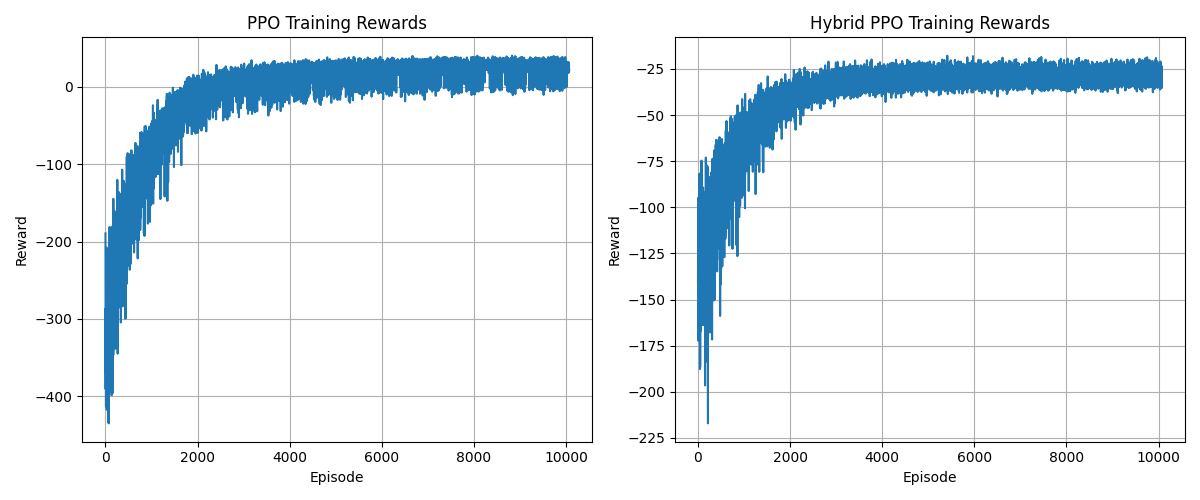
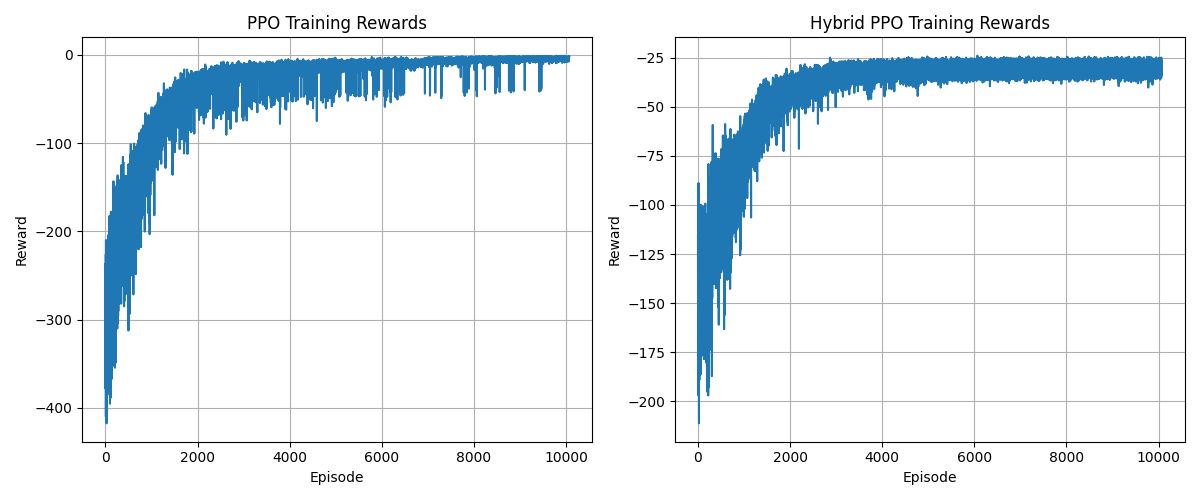
add the demo

diff --git a/frontend/src/components/smarthome/Overlay.tsx b/frontend/src/components/smarthome/Overlay.tsx
@@ -7,7 +7,8 @@ export default function Overlay() {
     const {
         devices, isNight, batterySOC, gridImport, totalBill, weather, n_home,
         simData, currentViewMode, setViewMode, toggleNight, isConnected, resetSimulation,
-        manualOverride, toggleManualMode, toggleDevice
+        manualOverride, toggleManualMode, toggleDevice,
+        isDemoMode, currentScenario, setDemoMode
     } = useStore();
 
     const [activeTab, setActiveTab] = useState<'dashboard' | 'devices'>('dashboard');
@@ -155,6 +156,64 @@ export default function Overlay() {
                             >
                                 ✕
                             </div>
+                        </div>
+                    </div>
+
+                    {/* Demo Mode Control Bar */}
+                    <div style={{
+                        display: 'flex', alignItems: 'center', justifyContent: 'space-between',
+                        padding: '10px 12px', borderRadius: 8,
+                        background: isDemoMode ? 'rgba(251, 146, 60, 0.15)' : 'rgba(255, 255, 255, 0.05)',
+                        border: isDemoMode ? '1px solid rgba(251, 146, 60, 0.4)' : '1px solid rgba(255, 255, 255, 0.1)',
+                        transition: 'all 0.3s'
+                    }}>
+                        {/* Toggle Switch */}
+                        <div style={{ display: 'flex', alignItems: 'center', gap: 10 }}>
+                            <span style={{ fontSize: 11, fontWeight: 600, color: isDemoMode ? '#fb923c' : '#94a3b8' }}>
+                                🎬 Demo Mode
+                            </span>
+                            <div
+                                onClick={() => setDemoMode(!isDemoMode)}
+                                style={{
+                                    width: 44, height: 24, borderRadius: 12,
+                                    background: isDemoMode ? 'linear-gradient(135deg, #f97316, #ea580c)' : '#374151',
+                                    padding: 2, cursor: 'pointer',
+                                    transition: 'all 0.3s',
+                                    boxShadow: isDemoMode ? '0 0 12px rgba(249, 115, 22, 0.4)' : 'none'
+                                }}
+                            >
+                                <div style={{
+                                    width: 20, height: 20, borderRadius: '50%',
+                                    background: '#fff',
+                                    transform: isDemoMode ? 'translateX(20px)' : 'translateX(0)',
+                                    transition: 'transform 0.3s ease',
+                                    boxShadow: '0 2px 4px rgba(0,0,0,0.3)'
+                                }} />
+                            </div>
+                        </div>
+
+                        {/* Scenario Dropdown */}
+                        <div style={{ display: 'flex', alignItems: 'center', gap: 8 }}>
+                            <span style={{ fontSize: 10, color: '#64748b' }}>Scenario:</span>
+                            <select
+                                value={currentScenario}
+                                onChange={(e) => setDemoMode(true, e.target.value)}
+                                disabled={!isDemoMode}
+                                style={{
+                                    background: isDemoMode ? 'rgba(251, 146, 60, 0.2)' : 'rgba(100, 116, 139, 0.2)',
+                                    border: isDemoMode ? '1px solid rgba(251, 146, 60, 0.4)' : '1px solid rgba(100, 116, 139, 0.3)',
+                                    borderRadius: 6, padding: '5px 10px',
+                                    color: isDemoMode ? '#fed7aa' : '#64748b',
+                                    fontSize: 11, fontWeight: 600,
+                                    cursor: isDemoMode ? 'pointer' : 'not-allowed',
+                                    opacity: isDemoMode ? 1 : 0.5,
+                                    outline: 'none'
+                                }}
+                            >
+                                <option value="ideal">☀ Ideal Day</option>
+                                <option value="erratic">🌦 Erratic Day</option>
+                                <option value="heatwave">🔥 Heatwave</option>
+                            </select>
                         </div>
                     </div>
 

diff --git a/frontend/src/stores/useStore.ts b/frontend/src/stores/useStore.ts
@@ -7,6 +7,9 @@ interface EnvironmentData {
     temp: number;
     pv: number;
     price_tier: number;
+    // Demo mode fields (optional)
+    demo_mode?: boolean;
+    scenario_name?: string;
 }
 
 // Room-specific device actions
@@ -97,6 +100,11 @@ interface AppState {
     totalBill: number;
     weather: string;
     n_home: number;
+
+    // Demo Mode
+    isDemoMode: boolean;
+    currentScenario: 'ideal' | 'erratic' | 'heatwave';
+    setDemoMode: (enabled: boolean, scenario?: string) => Promise<void>;
 }
 
 const INITIAL_DEVICES: Record<string, Device> = {
@@ -317,4 +325,26 @@ export const useStore = create<AppState>((set, get) => ({
     totalBill: 0,
     weather: 'sunny',
     n_home: 2,
+
+    // Demo Mode
+    isDemoMode: false,
+    currentScenario: 'ideal',
+    setDemoMode: async (enabled, scenario) => {
+        const newScenario = scenario || get().currentScenario;
+        set({ isDemoMode: enabled, currentScenario: newScenario as any });
+
+        try {
+            await fetch('http://localhost:8000/set_mode', {
+                method: 'POST',
+                headers: { 'Content-Type': 'application/json' },
+                body: JSON.stringify({ demo_mode: enabled, scenario: newScenario })
+            });
+            // Reset local state when toggling demo mode
+            if (enabled) {
+                get().resetSimulation();
+            }
+        } catch (e) {
+            console.error('Failed to set demo mode:', e);
+        }
+    },
 }));

diff --git a/frontend/src/components/smarthome/Environment.tsx b/frontend/src/components/smarthome/Environment.tsx
@@ -118,3 +118,5 @@ export default function Environment() {
 }
 
 
+
+

diff --git a/frontend/src/components/StaticHouse.jsx b/frontend/src/components/StaticHouse.jsx
@@ -8,3 +8,5 @@ export default function StaticHouse() {
 
 
 
+
+

diff --git a/frontend/src/components/smarthome/materials.js b/frontend/src/components/smarthome/materials.js
@@ -149,3 +149,5 @@ export const makeChromeMat = () =>
 
 
 
+
+

diff --git a/backend/ws_server.py b/backend/ws_server.py
@@ -45,6 +45,34 @@ app.add_middleware(
 PPO_MODEL_PATH = "ppo_smart_home.zip"
 HYBRID_MODEL_PATH = "ppo_hybrid_smart_home.zip"
 
+# Demo Scenarios for presentation mode
+DEMO_SCENARIOS = {
+    "ideal": {
+        "name": "Ideal Day",
+        "description": "Sunny bell-curve PV, normal pricing",
+        "pv_profile": [0, 0, 0, 0, 0, 0, 0.2, 0.8, 1.5, 2.5, 3.2, 3.8, 4.0, 3.8, 3.0, 2.0, 1.0, 0.3, 0, 0, 0, 0, 0, 0],
+        "temp_profile": [24, 24, 23, 23, 23, 24, 25, 26, 27, 28, 29, 30, 31, 31, 30, 29, 28, 27, 26, 26, 25, 25, 24, 24],
+        "price_tier": [1, 1, 1, 1, 1, 1, 2, 2, 2, 3, 3, 3, 3, 3, 3, 3, 4, 5, 5, 4, 3, 2, 1, 1],
+        "weather": "sunny"
+    },
+    "erratic": {
+        "name": "Erratic Day",
+        "description": "Intermittent clouds, PV drops at 10h and 14h",
+        "pv_profile": [0, 0, 0, 0, 0, 0, 0.1, 0.5, 1.8, 2.2, 0.2, 0.3, 2.5, 1.0, 0.1, 0.0, 0.0, 0.0, 0, 0, 0, 0, 0, 0],
+        "temp_profile": [25, 25, 25, 24, 24, 25, 26, 28, 30, 32, 31, 30, 29, 27, 26, 25, 25, 24, 24, 24, 23, 23, 23, 23],
+        "price_tier": [1, 1, 1, 1, 1, 1, 2, 2, 2, 3, 3, 3, 3, 3, 3, 3, 4, 5, 5, 4, 3, 2, 1, 1],
+        "weather": "cloudy"
+    },
+    "heatwave": {
+        "name": "Heatwave",
+        "description": "Extreme heat (41°C peak), high PV, tier 6 pricing",
+        "pv_profile": [0, 0, 0, 0, 0, 0.5, 1.2, 2.5, 3.5, 4.2, 4.5, 4.5, 4.5, 4.2, 3.8, 3.0, 2.0, 1.0, 0.2, 0, 0, 0, 0, 0],
+        "temp_profile": [28, 28, 27, 27, 27, 28, 30, 33, 36, 38, 40, 41, 41, 40, 38, 36, 34, 32, 31, 30, 30, 29, 29, 28],
+        "price_tier": [1, 1, 1, 1, 1, 2, 3, 4, 4, 5, 5, 5, 5, 5, 5, 5, 6, 6, 6, 5, 4, 3, 2, 1],
+        "weather": "sunny"
+    }
+}
+
 
 class RealModelSimulation:
     """
@@ -58,6 +86,10 @@ class RealModelSimulation:
         self.ppo_model = None
         self.hybrid_model = None
         self.hybrid_wrapper = None
+        
+        # Demo mode state (OFF by default - uses normal simulation)
+        self.is_demo_mode = False
+        self.current_scenario = "ideal"
         
         # Environment config
         self.config = {
@@ -224,6 +256,11 @@ class RealModelSimulation:
             
             hour = self.step_count % 24
             
+            # Inject demo scenario data if demo mode is active
+            # This happens BEFORE AI prediction so models see the demo data
+            if self.is_demo_mode:
+                self._inject_demo_data()
+            
             # Get environment states
             ppo_state = self._get_env_state(self.env_ppo)
             hybrid_state = self._get_env_state(self.env_hybrid)
@@ -277,12 +314,26 @@ class RealModelSimulation:
         hour = self.step_count % 24
         
         # Environment data (shared)
-        env_data = {
-            "weather": str(self.info_ppo.get('weather', 'sunny')),
-            "temp": float(round(float(self.info_ppo.get('temp', 30.0)), 1)),
-            "pv": float(round(float(self.info_ppo.get('pv', 0.0)), 2)),
-            "price_tier": int(self._get_price_tier(self.env_ppo.cumulative_import_kwh))
-        }
+        # When demo mode is ON, use scenario data instead of environment data
+        if self.is_demo_mode:
+            scenario = DEMO_SCENARIOS[self.current_scenario]
+            env_data = {
+                "weather": scenario["weather"],
+                "temp": float(scenario["temp_profile"][hour]),
+                "pv": float(scenario["pv_profile"][hour]),
+                "price_tier": int(scenario["price_tier"][hour]),
+                "scenario_name": scenario["name"],
+                "demo_mode": True
+            }
+        else:
+            # Original logic - use actual environment data
+            env_data = {
+                "weather": str(self.info_ppo.get('weather', 'sunny')),
+                "temp": float(round(float(self.info_ppo.get('temp', 30.0)), 1)),
+                "pv": float(round(float(self.info_ppo.get('pv', 0.0)), 2)),
+                "price_tier": int(self._get_price_tier(self.env_ppo.cumulative_import_kwh)),
+                "demo_mode": False
+            }
         
         # Get room temperatures from environments
         ppo_room_temps = self.info_ppo.get('room_temps', {})
@@ -366,6 +417,36 @@ class RealModelSimulation:
             "battery": str(info.get('battery', 'idle'))
         }
     
+    def set_demo_mode(self, enabled: bool, scenario: str = None):
+        """Toggle demo mode and optionally change scenario"""
+        self.is_demo_mode = enabled
+        if scenario and scenario in DEMO_SCENARIOS:
+            self.current_scenario = scenario
+        if enabled:
+            self.reset()  # Reset to hour 0 when enabling demo
+            logger.info(f"🎬 Demo mode ENABLED - Scenario: {DEMO_SCENARIOS[self.current_scenario]['name']}")
+        else:
+            logger.info("🔄 Demo mode DISABLED - Returning to normal simulation")
+    
+    def _inject_demo_data(self):
+        """Inject demo scenario data into environments when demo mode is ON"""
+        if not self.is_demo_mode:
+            return
+        
+        scenario = DEMO_SCENARIOS[self.current_scenario]
+        hour = self.step_count % 24
+        
+        demo_pv = scenario["pv_profile"][hour]
+        demo_temp = scenario["temp_profile"][hour]
+        
+        # Override PV profile in environments
+        for env in [self.env_ppo, self.env_hybrid]:
+            if hasattr(env, 'pv_profile') and len(env.pv_profile) > hour:
+                env.pv_profile[hour] = demo_pv
+            # Override temperature in load_schedules if available
+            if hasattr(env, 'load_schedules') and len(env.load_schedules) > hour:
+                env.load_schedules[hour]['temp_out'] = demo_temp
+    
     def reset(self):
         """Reset simulation for new day"""
         seed = np.random.randint(0, 10000)
@@ -379,7 +460,12 @@ class RealModelSimulation:
         self.info_ppo = {}
         self.info_hybrid = {}
         
-        logger.info(f"🔄 Simulation reset (seed={seed})")
+        # Inject demo data if demo mode is active
+        if self.is_demo_mode:
+            self._inject_demo_data()
+            logger.info(f"🔄 Demo reset - Scenario: {self.current_scenario}")
+        else:
+            logger.info(f"🔄 Simulation reset (seed={seed})")
 
 
 # Global simulation instance
@@ -422,6 +508,35 @@ async def reset_sim():
     """Reset simulation"""
     sim.reset()
     return {"status": "reset"}
+
+
+@app.post("/set_mode")
+async def set_mode(payload: dict):
+    """Toggle demo mode and optionally change scenario"""
+    demo_mode = payload.get("demo_mode", False)
+    scenario = payload.get("scenario", None)
+    
+    sim.set_demo_mode(demo_mode, scenario)
+    
+    return {
+        "status": "ok",
+        "demo_mode": sim.is_demo_mode,
+        "scenario": sim.current_scenario,
+        "scenario_name": DEMO_SCENARIOS[sim.current_scenario]["name"] if sim.is_demo_mode else None
+    }
+
+
+@app.get("/scenarios")
+async def get_scenarios():
+    """List available demo scenarios"""
+    return {
+        "scenarios": [
+            {"key": key, "name": val["name"], "description": val["description"]}
+            for key, val in DEMO_SCENARIOS.items()
+        ],
+        "current_scenario": sim.current_scenario,
+        "demo_mode": sim.is_demo_mode
+    }
 
 
 @app.get("/reload-models")

diff --git a/backend/smart_home_env.py b/backend/smart_home_env.py
@@ -276,8 +276,9 @@ class SmartHomeEnv(gym.Env):
 
         prev_cost = self.total_cost
         import_bill = calculate_vietnam_tiered_bill(self.cumulative_import_kwh)
-        export_revenue = self.cumulative_export_kwh * 2000
-        self.total_cost = import_bill - export_revenue
+        # NOTE: Export revenue disabled - no feed-in tariff (không bán điện về lưới)
+        # export_revenue = self.cumulative_export_kwh * 2000
+        self.total_cost = import_bill  # Only import cost, no export credit
         step_cost = self.total_cost - prev_cost
 
         # -------- Reward --------
